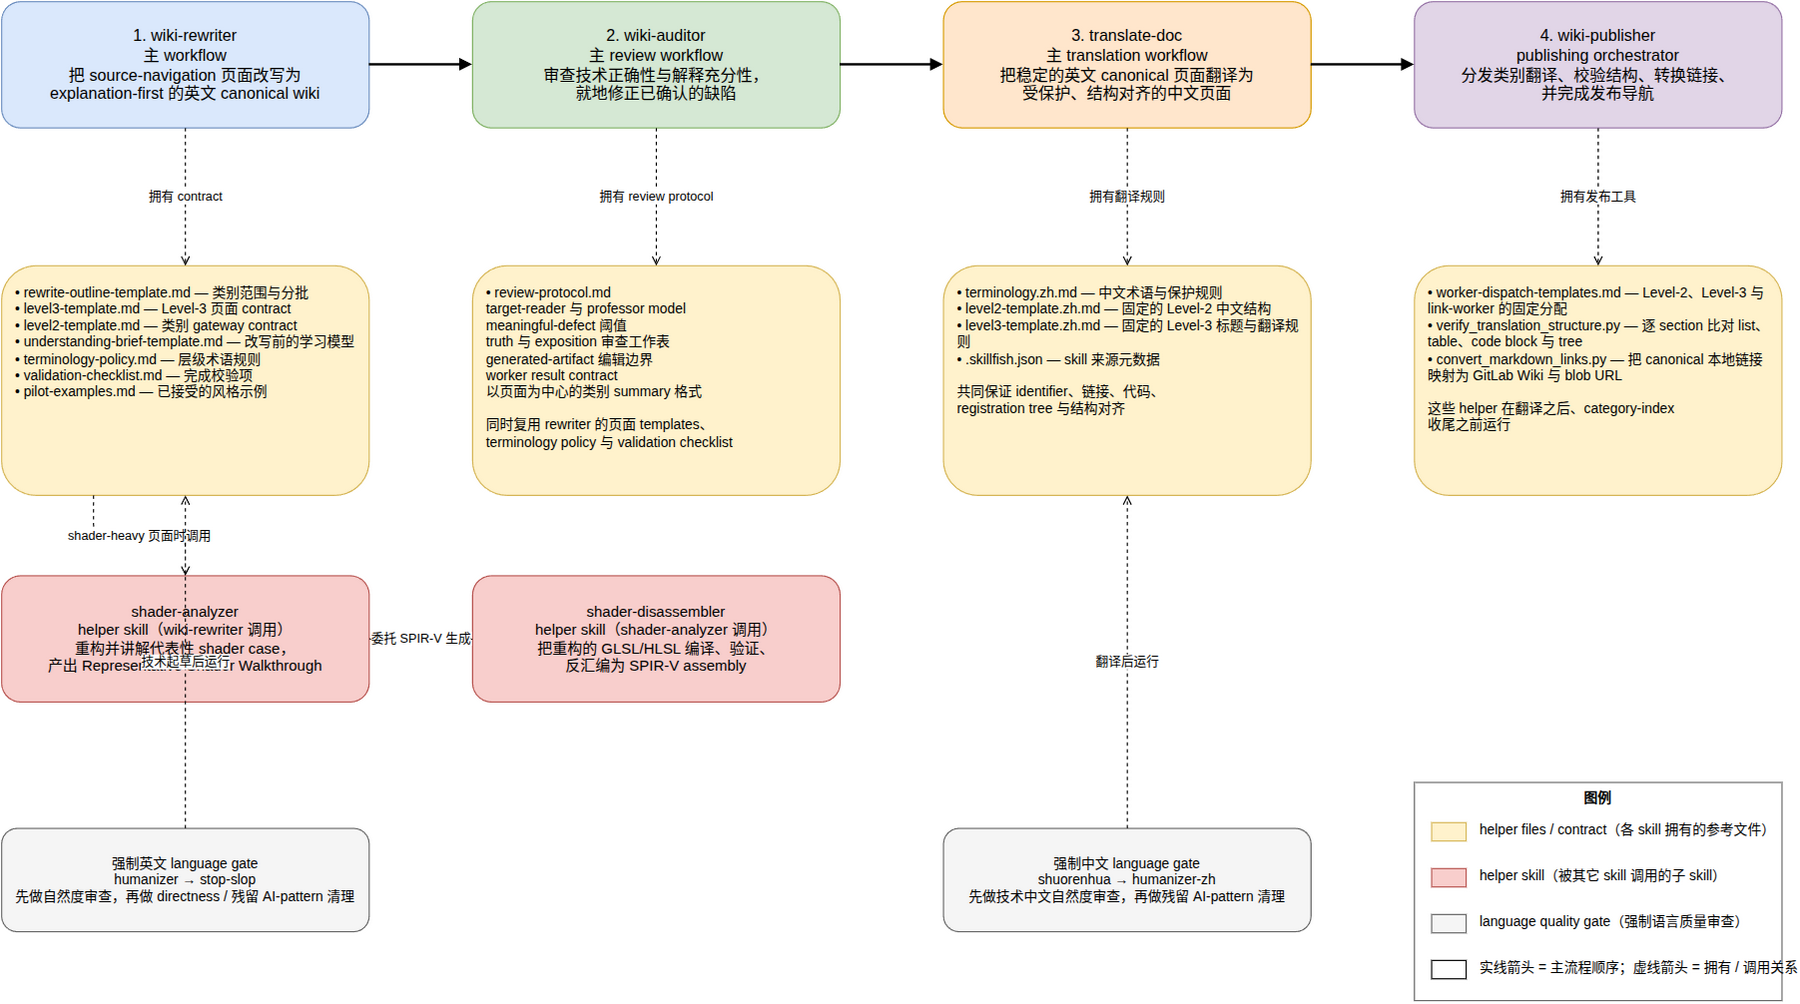
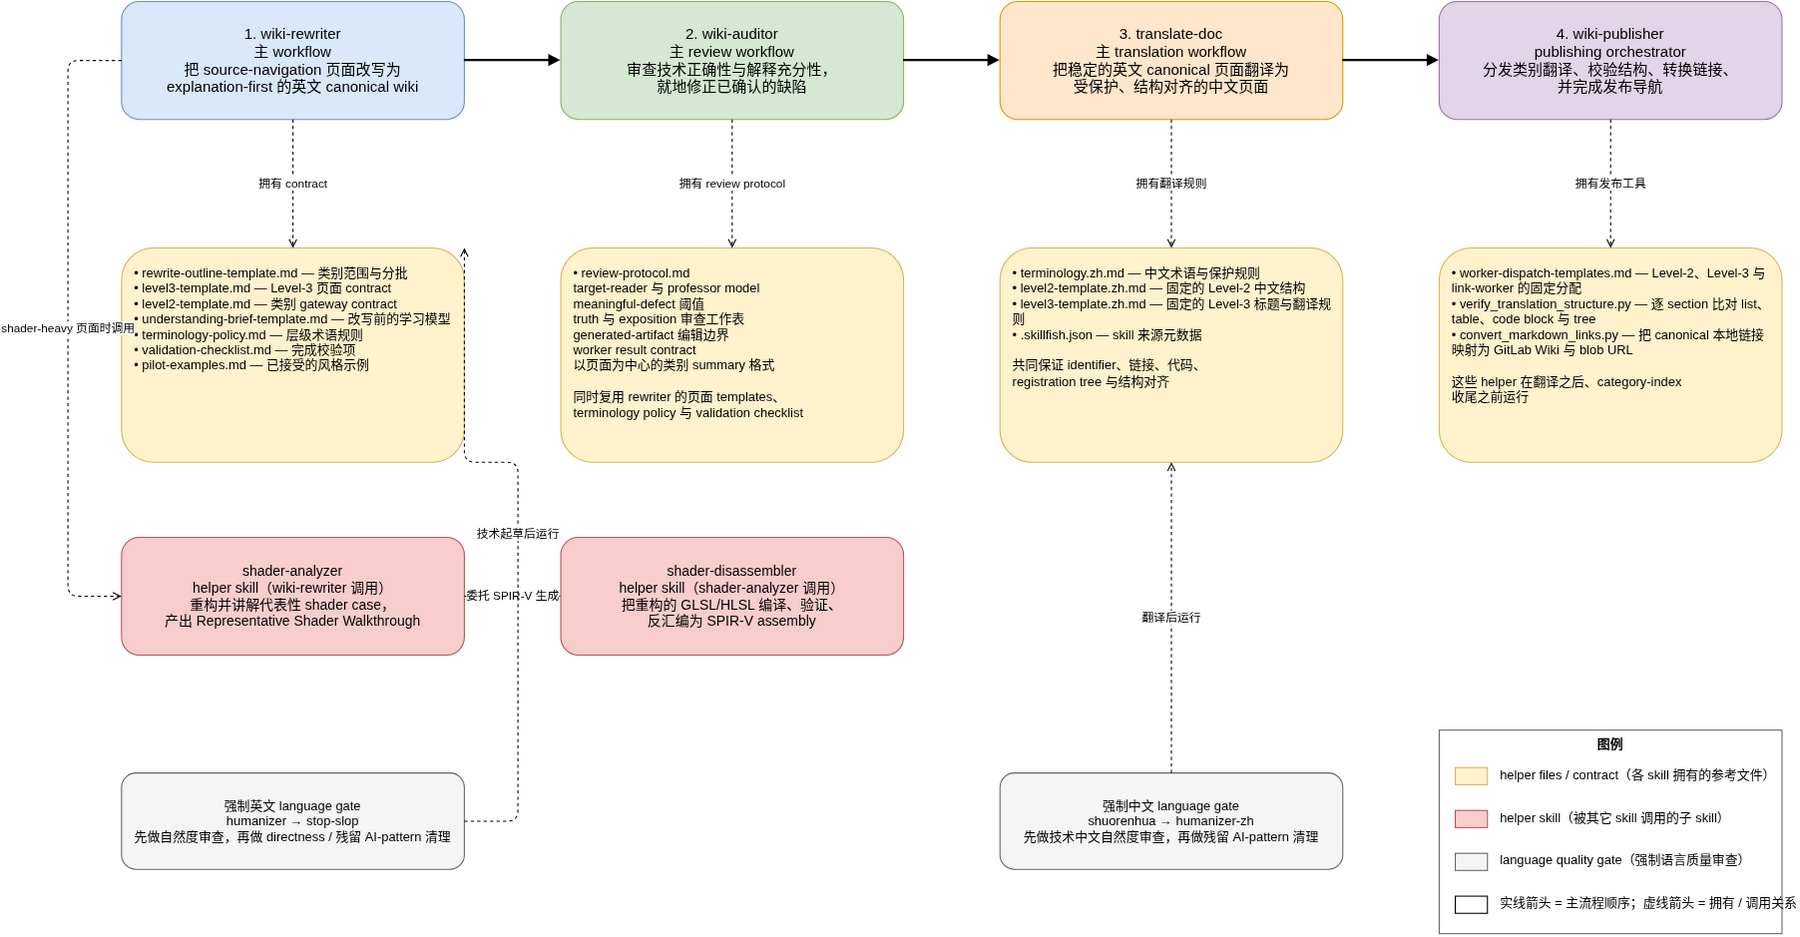
add mermaid ref; update drawio ref.

diff --git a/diagrams/mermaid-prompt.md b/diagrams/mermaid-prompt.md
@@ -1,0 +1,183 @@
+# Task: 生成 VK-GL-CTS Skills 关系 Mind Map（Mermaid）
+
+直接生成一个 Mermaid 图表（无需使用任何外部 skill 或工具）。将 Mermaid 代码写入 `diagrams/vkcts-skills-mindmap.mmd` 文件。
+
+## 背景
+
+VK-GL-CTS 项目在 `.agents/skills/` 下有一组 wiki 文档 skills。本图展示这些 skills 之间的**使用先后顺序**、**master/helper 关系**，以及每个 skill 的 **helper files** 和 **helper skills** 的作用。
+
+## 范围限制（重要）
+
+**包含以下 skills：**
+
+主 workflow skills（4 个）：
+
+1. `wiki-rewriter`
+2. `wiki-auditor`
+3. `translate-doc`
+4. `wiki-publisher`
+
+helper skills（2 个，均为 `wiki-rewriter` 的 helper）：
+
+5. `shader-analyzer`
+6. `shader-disassembler`
+
+**不要包含以下 skills：** `wiki-analyzer`、`vkcts-wiki-sync`。不要画中央标题节点。
+
+## helper skill 关系说明
+
+- `shader-analyzer` 是 `wiki-rewriter` 的 helper skill：在改写 shader-heavy 页面时，`wiki-rewriter` 调用 `shader-analyzer` 来重构并讲解代表性 shader case。
+- `shader-disassembler` 是 `shader-analyzer` 的 helper skill：`shader-analyzer` 调用 `shader-disassembler` 把重构的 GLSL/HLSL 编译、验证、反汇编为 SPIR-V assembly。
+- 形成调用链：`wiki-rewriter` → `shader-analyzer` → `shader-disassembler`。
+
+## 语言规则
+
+- 整体使用**中文叙述**。
+- 技术概念保留英文，参照以下原则（源自 `translate-doc` 的 terminology 规则）：
+  - skill 名称保留英文：`wiki-rewriter`、`wiki-auditor`、`translate-doc`、`wiki-publisher`、`shader-analyzer`、`shader-disassembler`
+  - 保留英文的技术词：`workflow`、`source-navigation`、`explanation-first`、`canonical wiki`、`review workflow`、`translation workflow`、`publishing orchestrator`、`Level-2`、`Level-3`、`contract`、`gateway`、`template`、`terminology policy`、`validation checklist`、`registration tree`、`identifier`、`language gate`、`AI-pattern`、`directness`、`category-index`、`link-worker`、`section`、`list`、`table`、`code block`、`tree`、`blob URL`、`GitLab Wiki`、`canonical`、`helper`、`professor model`、`target-reader`、`meaningful-defect`、`truth`、`exposition`、`generated-artifact`、`worker result contract`、`summary`、`shader-heavy`、`shader case`、`GLSL`、`HLSL`、`SPIR-V`、`assembly`、`representative`、`walkthrough`
+  - 文件名保留英文原样，如 `review-protocol.md`、`terminology.zh.md`、`output-template.md`、`shader-utility-index.md`、`workflow-notes.md`
+  - 普通解释性文字翻译成中文
+
+## 图表类型与布局
+
+使用 `flowchart TD`（自上而下方向）。
+
+由于 Mermaid 的自动布局无法像 Draw.io 那样精确控制坐标，采用以下策略实现清晰的层次结构：
+
+### 节点分层（利用不可见的层级推算）
+
+```
+第一层: wiki-rewriter → wiki-auditor → translate-doc → wiki-publisher   （主流程，实线箭头）
+第二层: 各 skill 下方的 helper files 节点                                  （黄色，虚线连接到对应 skill）
+第三层: shader-analyzer、shader-disassembler                               （红色，虚线连接）
+第四层: enWorkers、zhWorkers                                                （灰色，虚线连接到对应 helper files）
+```
+
+### 节点 ID 与内容
+
+**第一层 — 4 个主 skill（各用不同颜色）：**
+
+| 节点 ID | 显示内容 | 颜色 class |
+|---------|----------|-----------|
+| rewriter | `1. wiki-rewriter<br/>主 workflow<br/>把 source-navigation 页面改写为<br/>explanation-first 的英文 canonical wiki` | blue |
+| auditor | `2. wiki-auditor<br/>主 review workflow<br/>审查技术正确性与解释充分性，<br/>就地修正已确认的缺陷` | green |
+| translate | `3. translate-doc<br/>主 translation workflow<br/>把稳定的英文 canonical 页面翻译为<br/>受保护、结构对齐的中文页面` | orange |
+| publisher | `4. wiki-publisher<br/>publishing orchestrator<br/>分发类别翻译、校验结构、转换链接、<br/>并完成发布导航` | purple |
+
+**第二层 — 4 个 helper files 节点（黄色）：**
+
+**重要：不要在节点内写 "<skill name> helper files" 之类的标题，直接以文件列表开头。**
+
+| 节点 ID | 显示内容 |
+|---------|----------|
+| rwHelpers | `• rewrite-outline-template.md — 类别范围与分批<br/>• level3-template.md — Level-3 页面 contract<br/>• level2-template.md — 类别 gateway contract<br/>• understanding-brief-template.md — 改写前的学习模型<br/>• terminology-policy.md — 层级术语规则<br/>• validation-checklist.md — 完成校验项<br/>• pilot-examples.md — 已接受的风格示例` |
+| auditHelpers | `• review-protocol.md<br/>　target-reader 与 professor model<br/>　meaningful-defect 阈值<br/>　truth 与 exposition 审查工作表<br/>　generated-artifact 编辑边界<br/>　worker result contract<br/>　以页面为中心的类别 summary 格式<br/><br/>同时复用 rewriter 的页面 templates、<br/>terminology policy 与 validation checklist` |
+| trHelpers | `• terminology.zh.md — 中文术语与保护规则<br/>• level2-template.zh.md — 固定的 Level-2 中文结构<br/>• level3-template.zh.md — 固定的 Level-3 标题与翻译规则<br/>• .skillfish.json — skill 来源元数据<br/><br/>共同保证 identifier、链接、代码、<br/>registration tree 与结构对齐` |
+| pubHelpers | `• worker-dispatch-templates.md — Level-2、Level-3 与 link-worker 的固定分配<br/>• verify_translation_structure.py — 逐 section 比对 list、table、code block 与 tree<br/>• convert_markdown_links.py — 把 canonical 本地链接映射为 GitLab Wiki 与 blob URL<br/><br/>这些 helper 在翻译之后、category-index<br/>收尾之前运行` |
+
+**第三层 — 2 个 helper skill 节点（红色）：**
+
+| 节点 ID | 显示内容 |
+|---------|----------|
+| shaderAnalyzer | `shader-analyzer<br/>helper skill（wiki-rewriter 调用）<br/>重构并讲解代表性 shader case，<br/>产出 Representative Shader Walkthrough` |
+| shaderDisassembler | `shader-disassembler<br/>helper skill（shader-analyzer 调用）<br/>把重构的 GLSL/HLSL 编译、验证、<br/>反汇编为 SPIR-V assembly` |
+
+**第四层 — 2 个 language gate 节点（灰色）：**
+
+| 节点 ID | 显示内容 |
+|---------|----------|
+| enWorkers | `强制英文 language gate<br/>humanizer → stop-slop<br/>先做自然度审查，再做 directness / 残留 AI-pattern 清理` |
+| zhWorkers | `强制中文 language gate<br/>shuorenhua → humanizer-zh<br/>先做技术中文自然度审查，再做残留 AI-pattern 清理` |
+
+## 连接线规则
+
+**主流程（实线粗箭头）：**
+
+水平连接第一层的 4 个 skill，表示使用顺序：
+
+```
+rewriter --> auditor --> translate --> publisher
+```
+
+**helper skill 调用链（虚线箭头）：**
+
+```
+rewriter -.->|shader-heavy 页面时调用| shaderAnalyzer
+shaderAnalyzer -.->|委托 SPIR-V 生成| shaderDisassembler
+```
+
+**拥有/调用关系（虚线箭头）：**
+
+每个 skill 向下连接到对应的 helper files 节点：
+
+```
+rewriter -.->|拥有 contract| rwHelpers
+auditor -.->|拥有 review protocol| auditHelpers
+translate -.->|拥有翻译规则| trHelpers
+publisher -.->|拥有发布工具| pubHelpers
+```
+
+**language gate 连接（虚线箭头）：**
+
+**注意：** enWorkers 和 zhWorkers 都向上指向各自列正上方的**黄色 helper files 节点**（enWorkers → rwHelpers，zhWorkers → trHelpers），不指向 helper skill 节点。
+
+```
+enWorkers -.->|技术起草后运行| rwHelpers
+zhWorkers -.->|翻译后运行| trHelpers
+```
+
+## 样式定义（classDef）
+
+在 Mermaid 代码末尾使用 `classDef` 定义颜色：
+
+```mermaid
+classDef blue fill:#dae8fc,stroke:#6c8ebf
+classDef green fill:#d5e8d4,stroke:#82b366
+classDef orange fill:#ffe6cc,stroke:#d79b00
+classDef purple fill:#e1d5e7,stroke:#9673a6
+classDef yellow fill:#fff2cc,stroke:#d6b656
+classDef red fill:#f8cecc,stroke:#b85450
+classDef gray fill:#f5f5f5,stroke:#666666
+```
+
+然后用 `class` 语句分配：
+
+```mermaid
+class rewriter blue
+class auditor green
+class translate orange
+class publisher purple
+class rwHelpers,auditHelpers,trHelpers,pubHelpers yellow
+class shaderAnalyzer,shaderDisassembler red
+class enWorkers,zhWorkers gray
+```
+
+## 图例
+
+由于 Mermaid flowchart 没有原生图例功能，在图表底部添加一个图例节点（使用不可见或中性样式），用文字说明颜色含义：
+
+```
+legend["图例<br/>🟨 helper files / contract（各 skill 拥有的参考文件）<br/>🟥 helper skill（被其它 skill 调用的子 skill）<br/>⬜ language quality gate（强制语言质量审查）<br/>━━ 实线 = 主流程顺序　- - 虚线 = 拥有 / 调用关系"]
+```
+
+给 legend 节点应用中性样式（无填充或白色填充），并用 `linkStyle` 隐藏连接到它的箭头（如果有的话），或干脆不连接它。
+
+## Mermaid 语法注意事项
+
+- 节点文本中的换行用 `<br/>`（Mermaid 支持 HTML 标签）。
+- 节点文本中的特殊字符（如 `()`、`[]`、`{}`、`|`）需要用引号包裹节点定义，例如：`rewriter["1. wiki-rewriter<br/>..."]`。
+- 虚线箭头用 `-.->`，带标签的虚线箭头用 `-.->|标签|`。
+- 实线箭头用 `-->`。
+- 全角空格 `　` 用于缩进子项。
+- 节点 ID 用英文驼峰，显示内容用中文+英文混合。
+- 文件开头写 `flowchart TD`。
+
+## 输出要求
+
+**所有输出文件必须写到 `diagrams/` 目录下，不要写到 project root。**
+
+1. 将 Mermaid 代码写入 `diagrams/vkcts-skills-mindmap.mmd`。
+2. 确认文件以 `flowchart TD` 开头。
+3. 确认所有节点、连接线、classDef 和 class 语句都完整。
+4. 确认 project root 下没有残留的副本。
